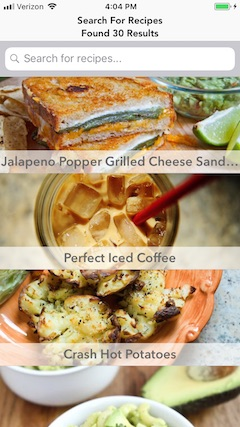
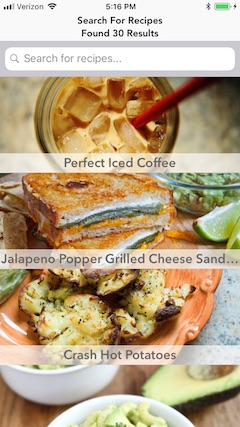
- Update screen shots for readme - Update Readme for mention of button on detail view for how to make the recipe - Another adjustment on spinner for when to start

diff --git a/BlueCart/Controllers/RecipeTableVC.swift b/BlueCart/Controllers/RecipeTableVC.swift
@@ -78,6 +78,7 @@ class RecipeTableVC: UIViewController, UITableViewDataSourcePrefetching, UISearc
         
         /// Load search terms from Core Data for use when user is searching terms
         viewModel.loadSearchTerms()
+        startSpinner(term: "you")
     }
     
     func setupSearchBar() {
@@ -135,18 +136,15 @@ class RecipeTableVC: UIViewController, UITableViewDataSourcePrefetching, UISearc
             print("Reachable via WiFi")
             viewModel.isNetworkReachable(reachable: true)
             loadInitialRecipePage()
-            startSpinner(term: "you")
         case .cellular:
             print("Reachable via Cellular")
             viewModel.isNetworkReachable(reachable: true)
             loadInitialRecipePage()
-            startSpinner(term: "you")
         case .none:
             TableViewHelper.EmptyMessage(message: Constants.NO_NET_MESSAGE, viewController: self, tableView: tableView)
             print("Network not reachable")
             viewModel.isNetworkReachable(reachable: false)
             loadInitialRecipePage()
-            startSpinner(term: "you")
         }
     }
 }

diff --git a/README.md b/README.md
@@ -11,7 +11,7 @@ Upon starting the app, you are presented with a table of top rated recipes in de
 
 Key Features:
 - Show top rated recipes both online and offline.
-- Show details of recipe including ingredients.
+- Show details of recipe including ingredients and button to view details on how to make the recipe.
 - Check mark next to each ingredient to check off after use when making recipe.
 - Find new recipes based on search terms.
 - View history of previous search terms, tap to view them.
